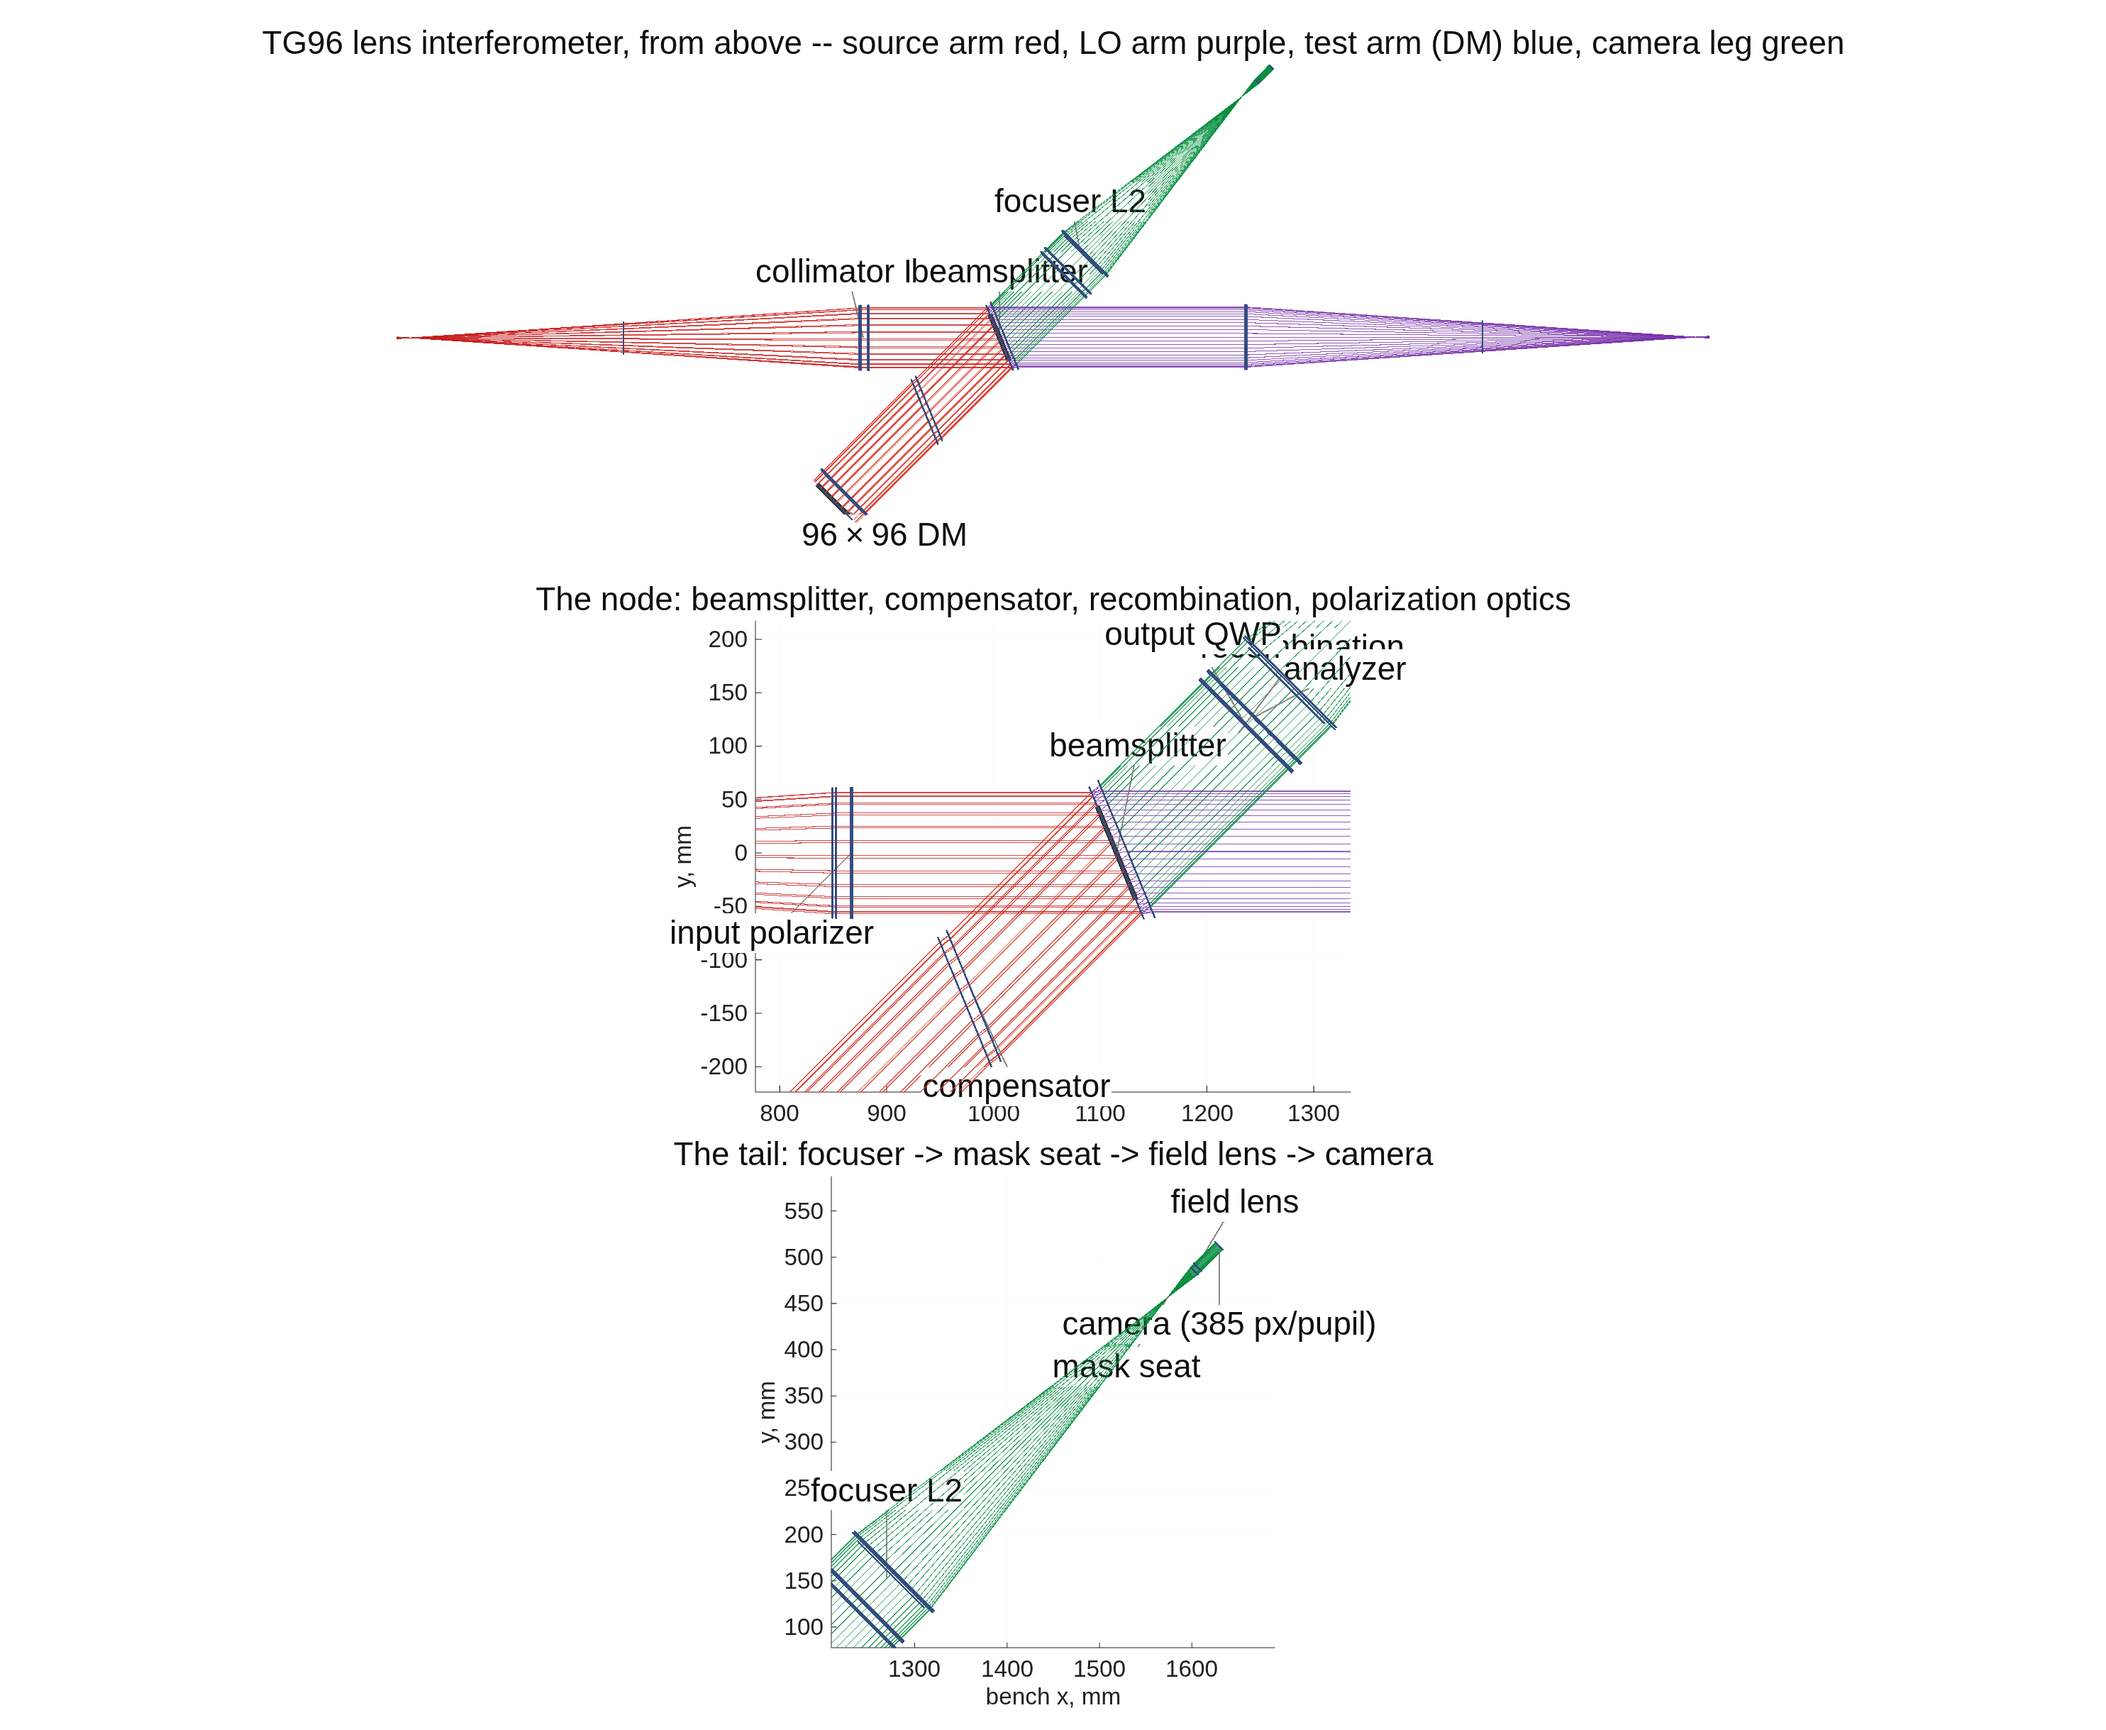
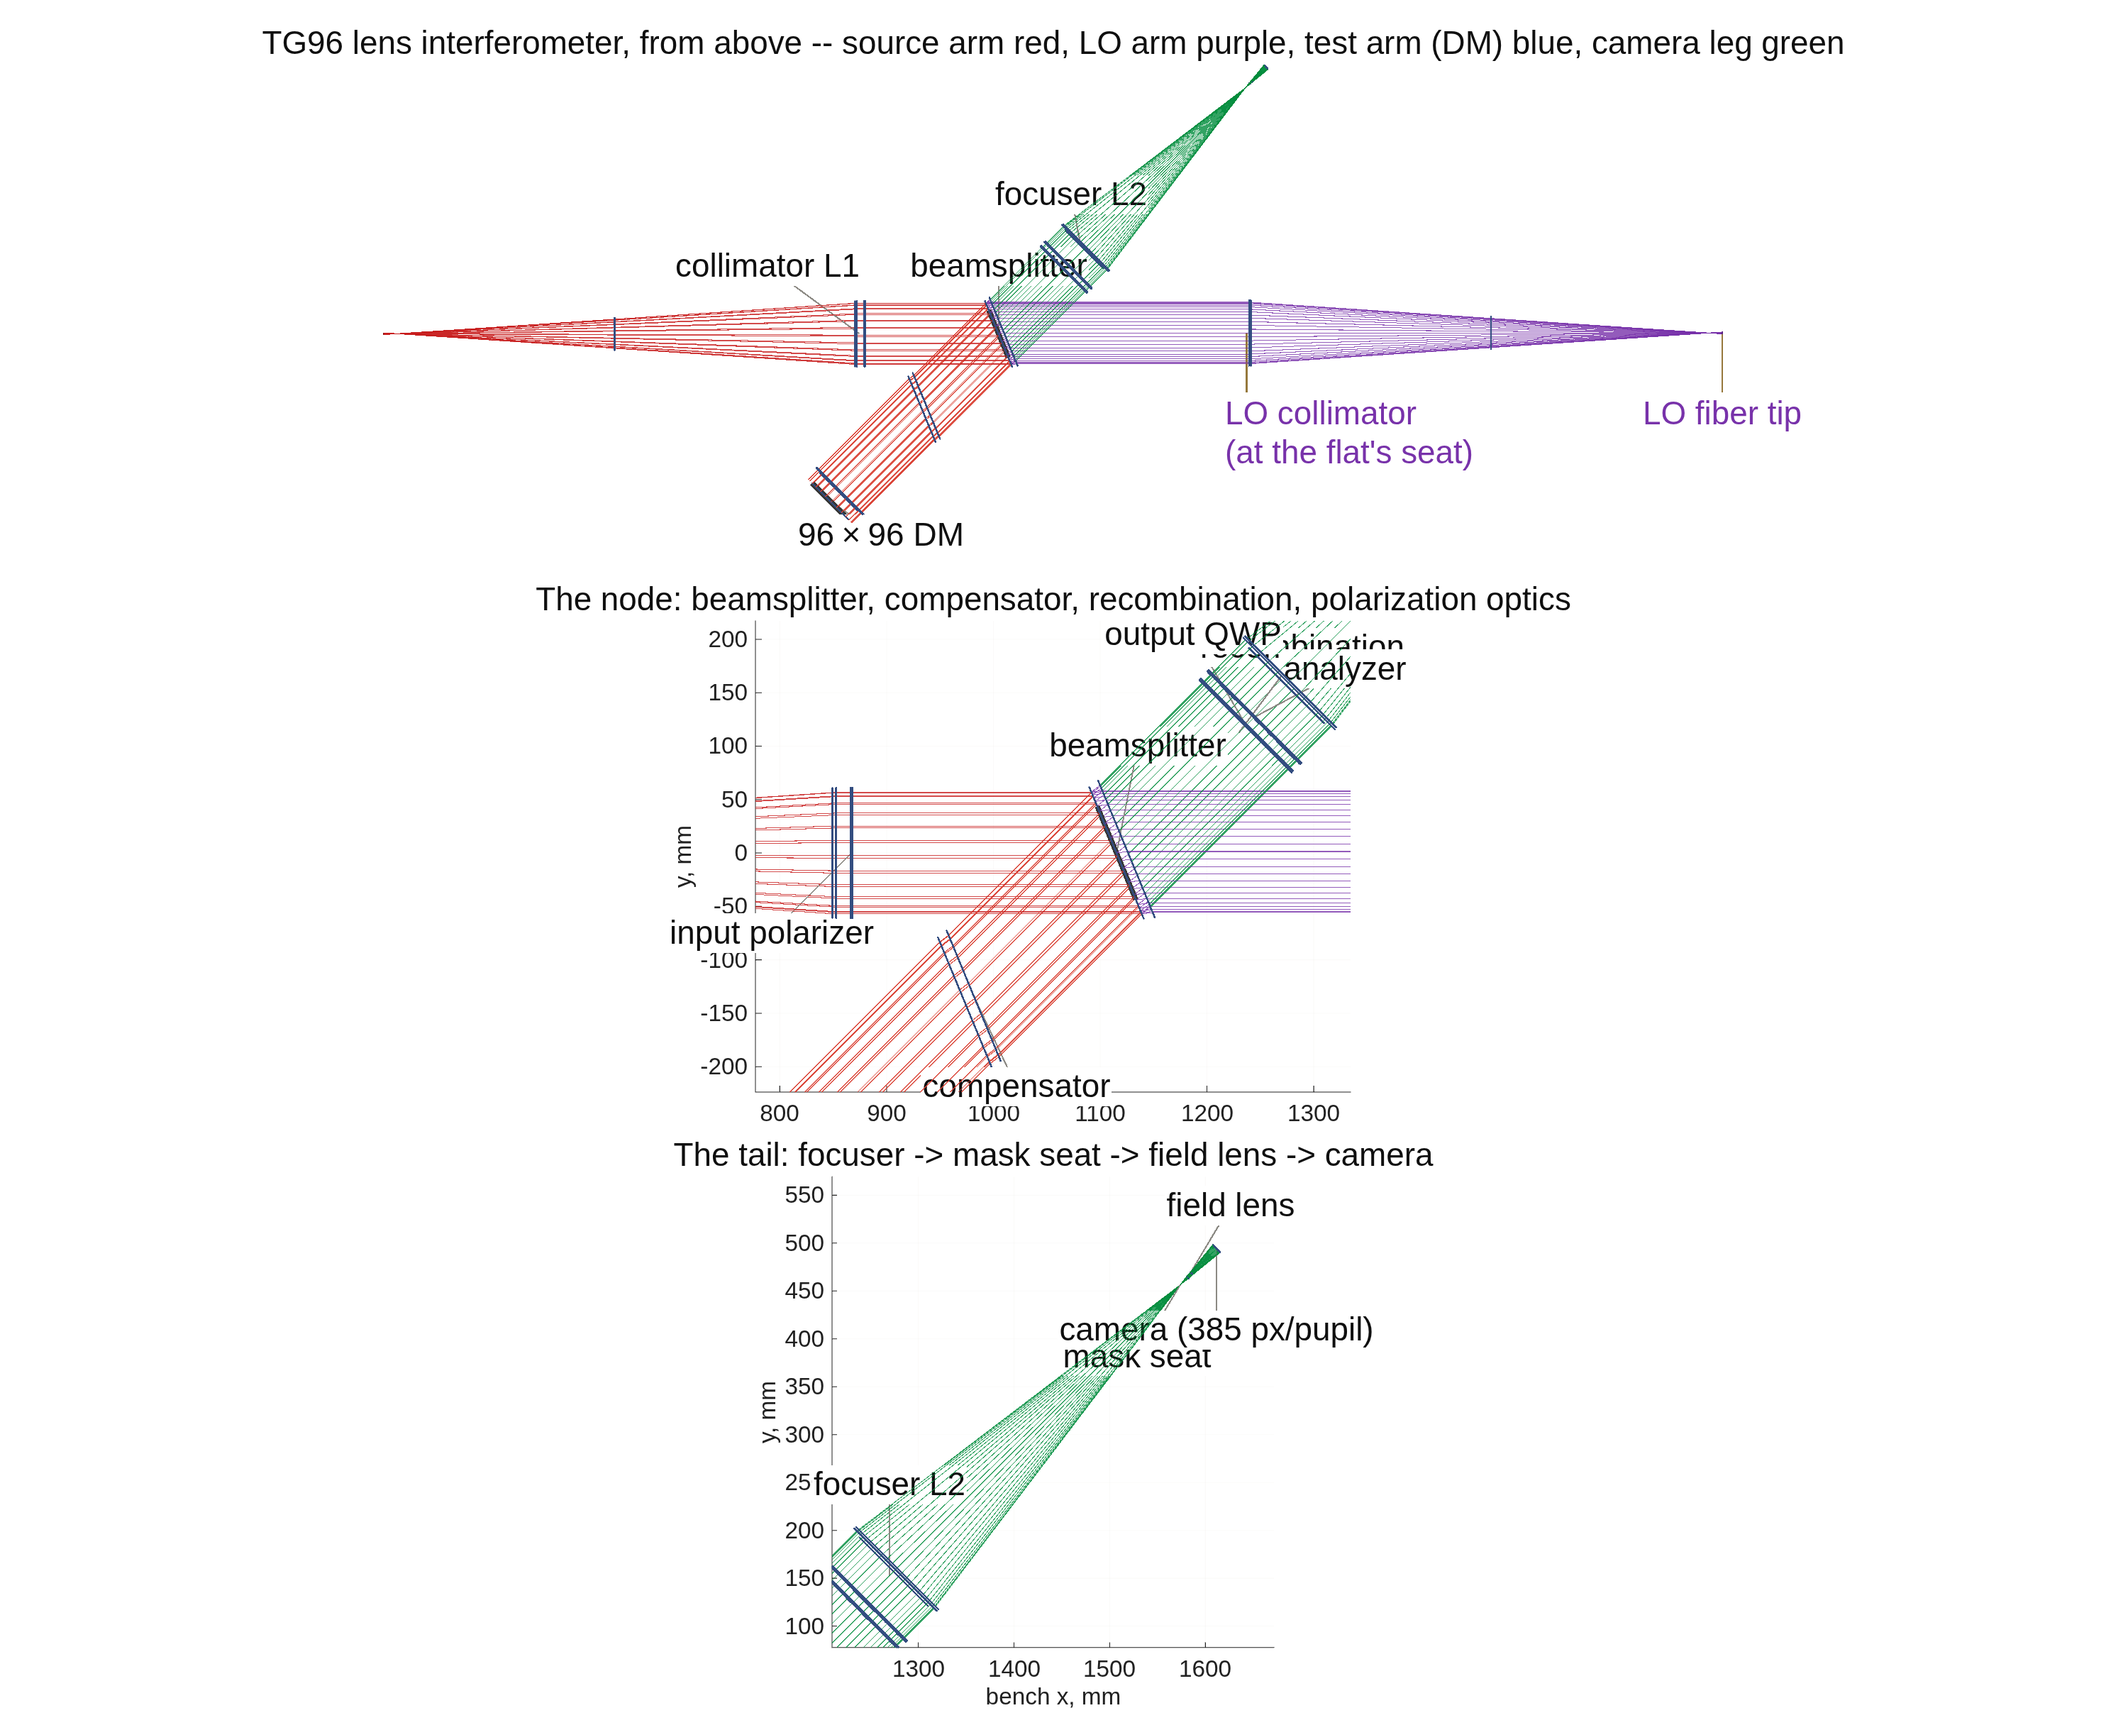
tg96_run draw_render_: the lens rig's 'collimator L1' label moved off the beamsplitter label; bench_lens re-run for the LO-labeled render (registration 0.000 px, null 0.000 nm, contrast 0.9825 unchanged)

diff --git a/mmacos/templates/40_benches/tg_psi_dm96_oap/tg96_run.m b/mmacos/templates/40_benches/tg_psi_dm96_oap/tg96_run.m
@@ -2220,7 +2220,7 @@ if oap
                NI({'BSrefl','BS'}), 'beamsplitter',   [  60  115]; ...
                NI({'L2','OAP2'}),   foc,              [  45  120] };
 else
-    Ltrain = { NI({'L1pow','L1'}),  coll,             [ -30  125]; ...
+    Ltrain = { NI({'L1pow','L1'}),  coll,             [-170  125]; ...   % left of the beamsplitter label (they collided, 2026-10-15)
                NI({'TestOptic'}),   '96\times96 DM',  [  95  -65]; ...
                NI({'BSrefl','BS'}), 'beamsplitter',   [   0  125]; ...
                NI({'L2pow','L2'}),  foc,              [ -20  105] };
